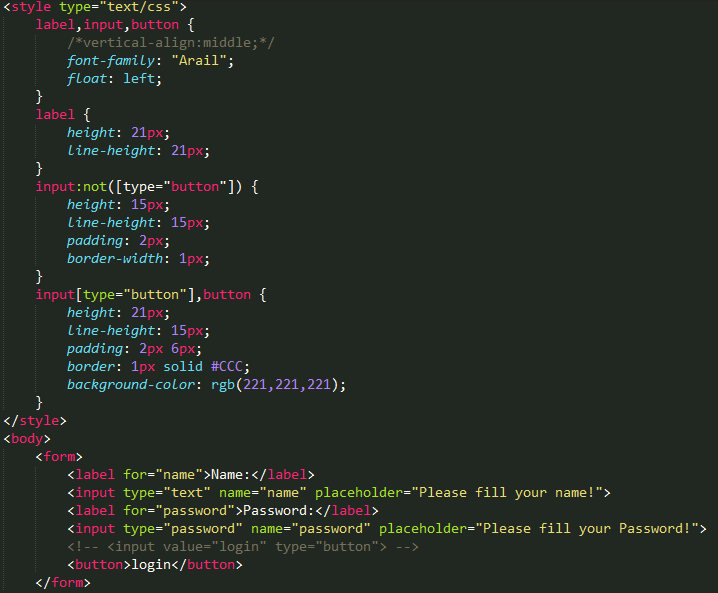
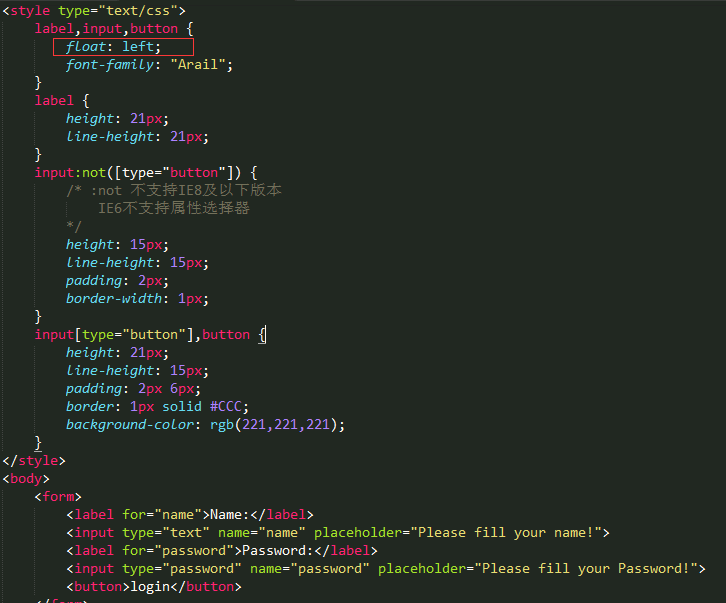
1
1

Changed region(s): [[0.0, 0.0, 0.9805, 1.0]]

diff --git a/compatible-test.html b/compatible-test.html
@@ -6,15 +6,17 @@
 </head>
 <style type="text/css">
 	label,input,button {
-		/*vertical-align:middle;*/
-		font-family: "Arail";
 		float: left;
+		font-family: "Arail";
 	}
 	label {
 		height: 21px;
 		line-height: 21px;
 	}
 	input:not([type="button"]) {
+		/* :not 不支持IE8及以下版本
+			IE6不支持属性选择器
+		*/
 		height: 15px;
 		line-height: 15px;
 		padding: 2px;
@@ -34,7 +36,6 @@
 		<input type="text" name="name" placeholder="Please fill your name!">
 		<label for="password">Password:</label>
 		<input type="password" name="password" placeholder="Please fill your Password!">
-		<!-- <input value="login" type="button"> -->
 		<button>login</button>
 	</form>
 </body>
